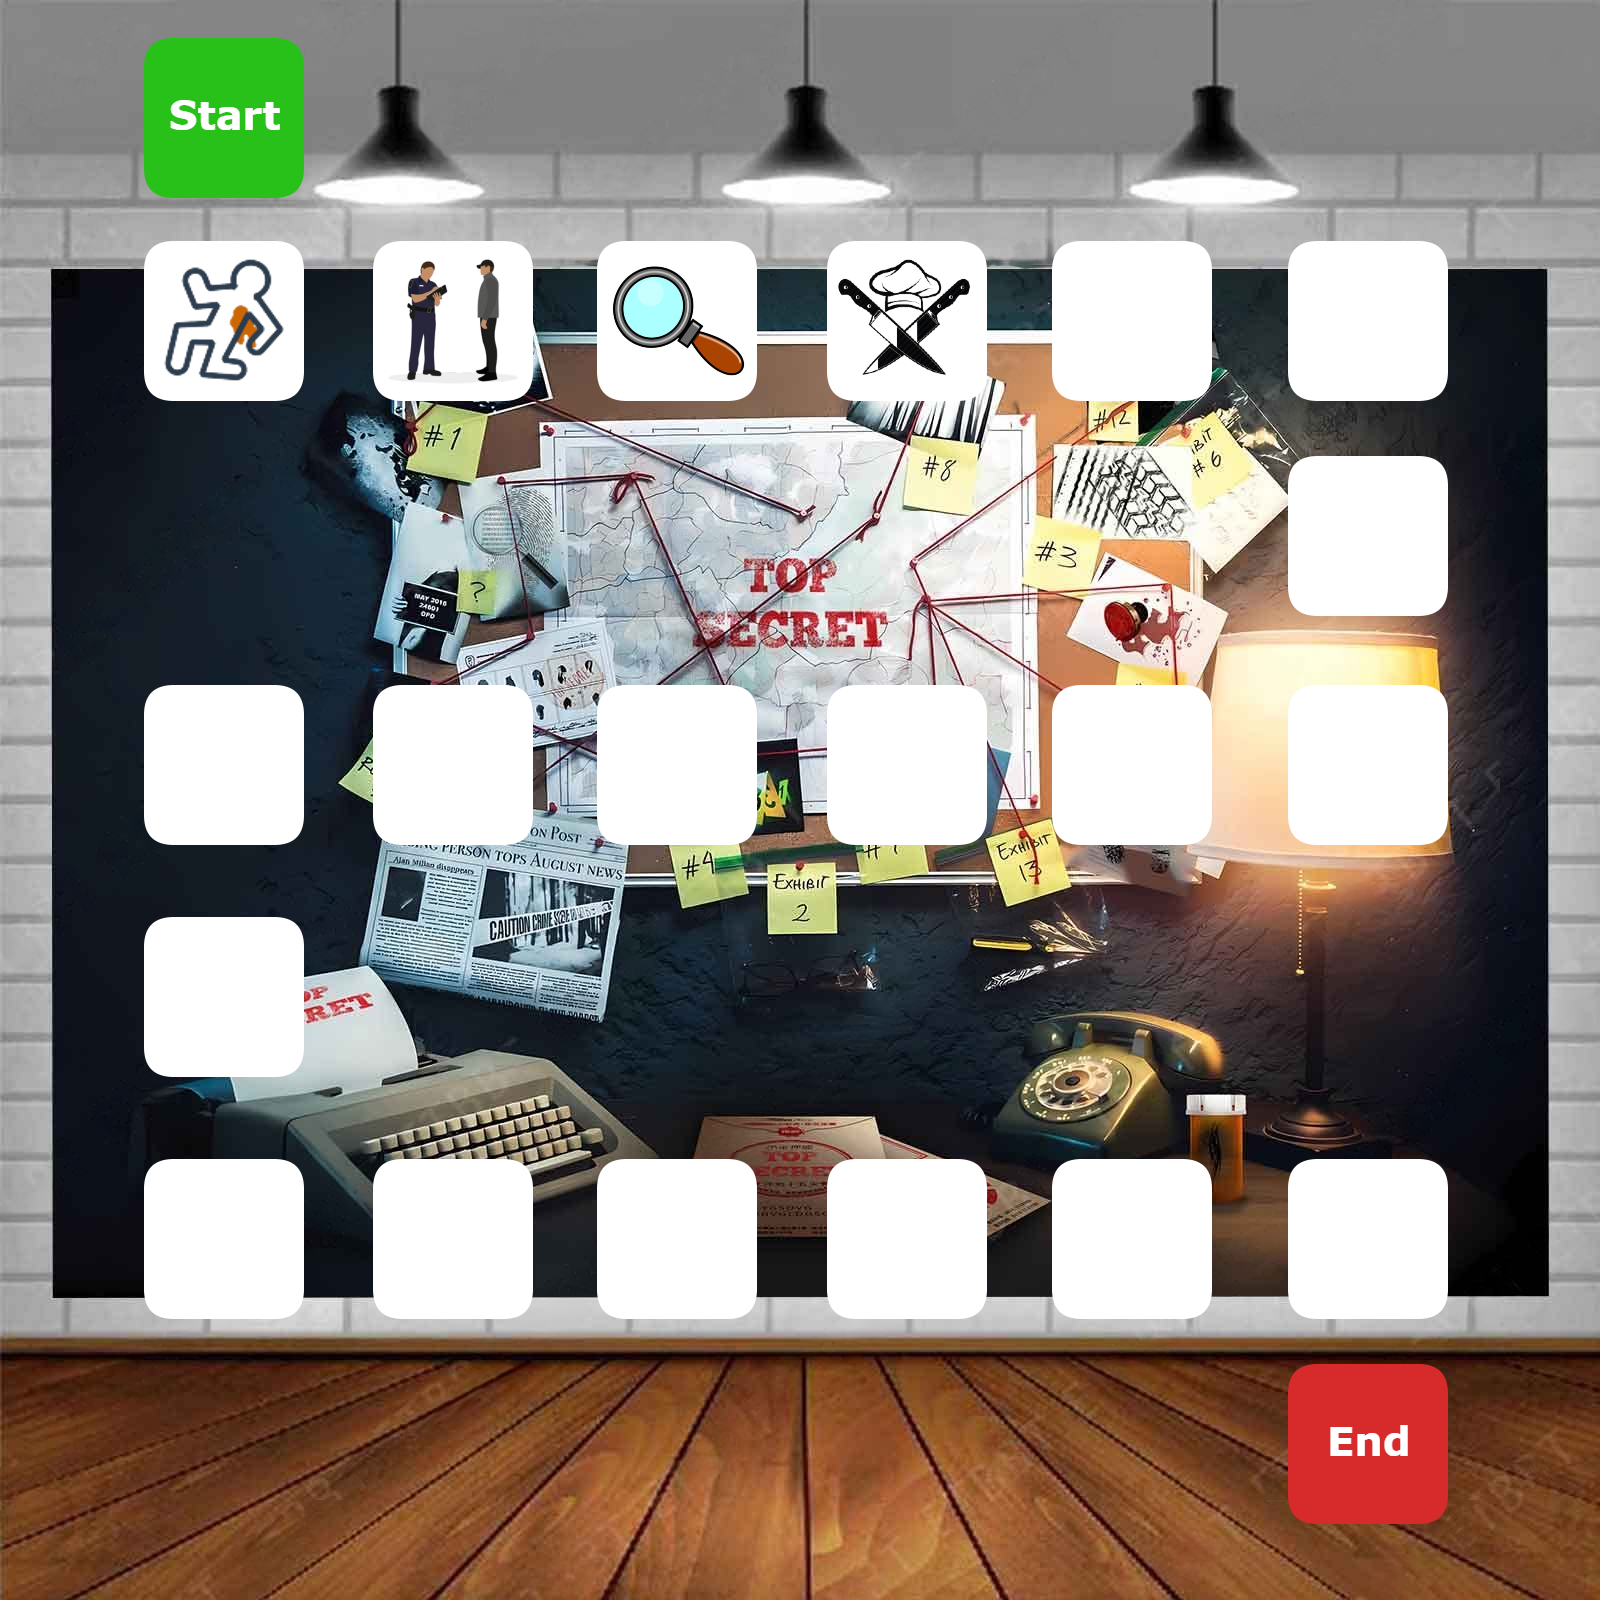
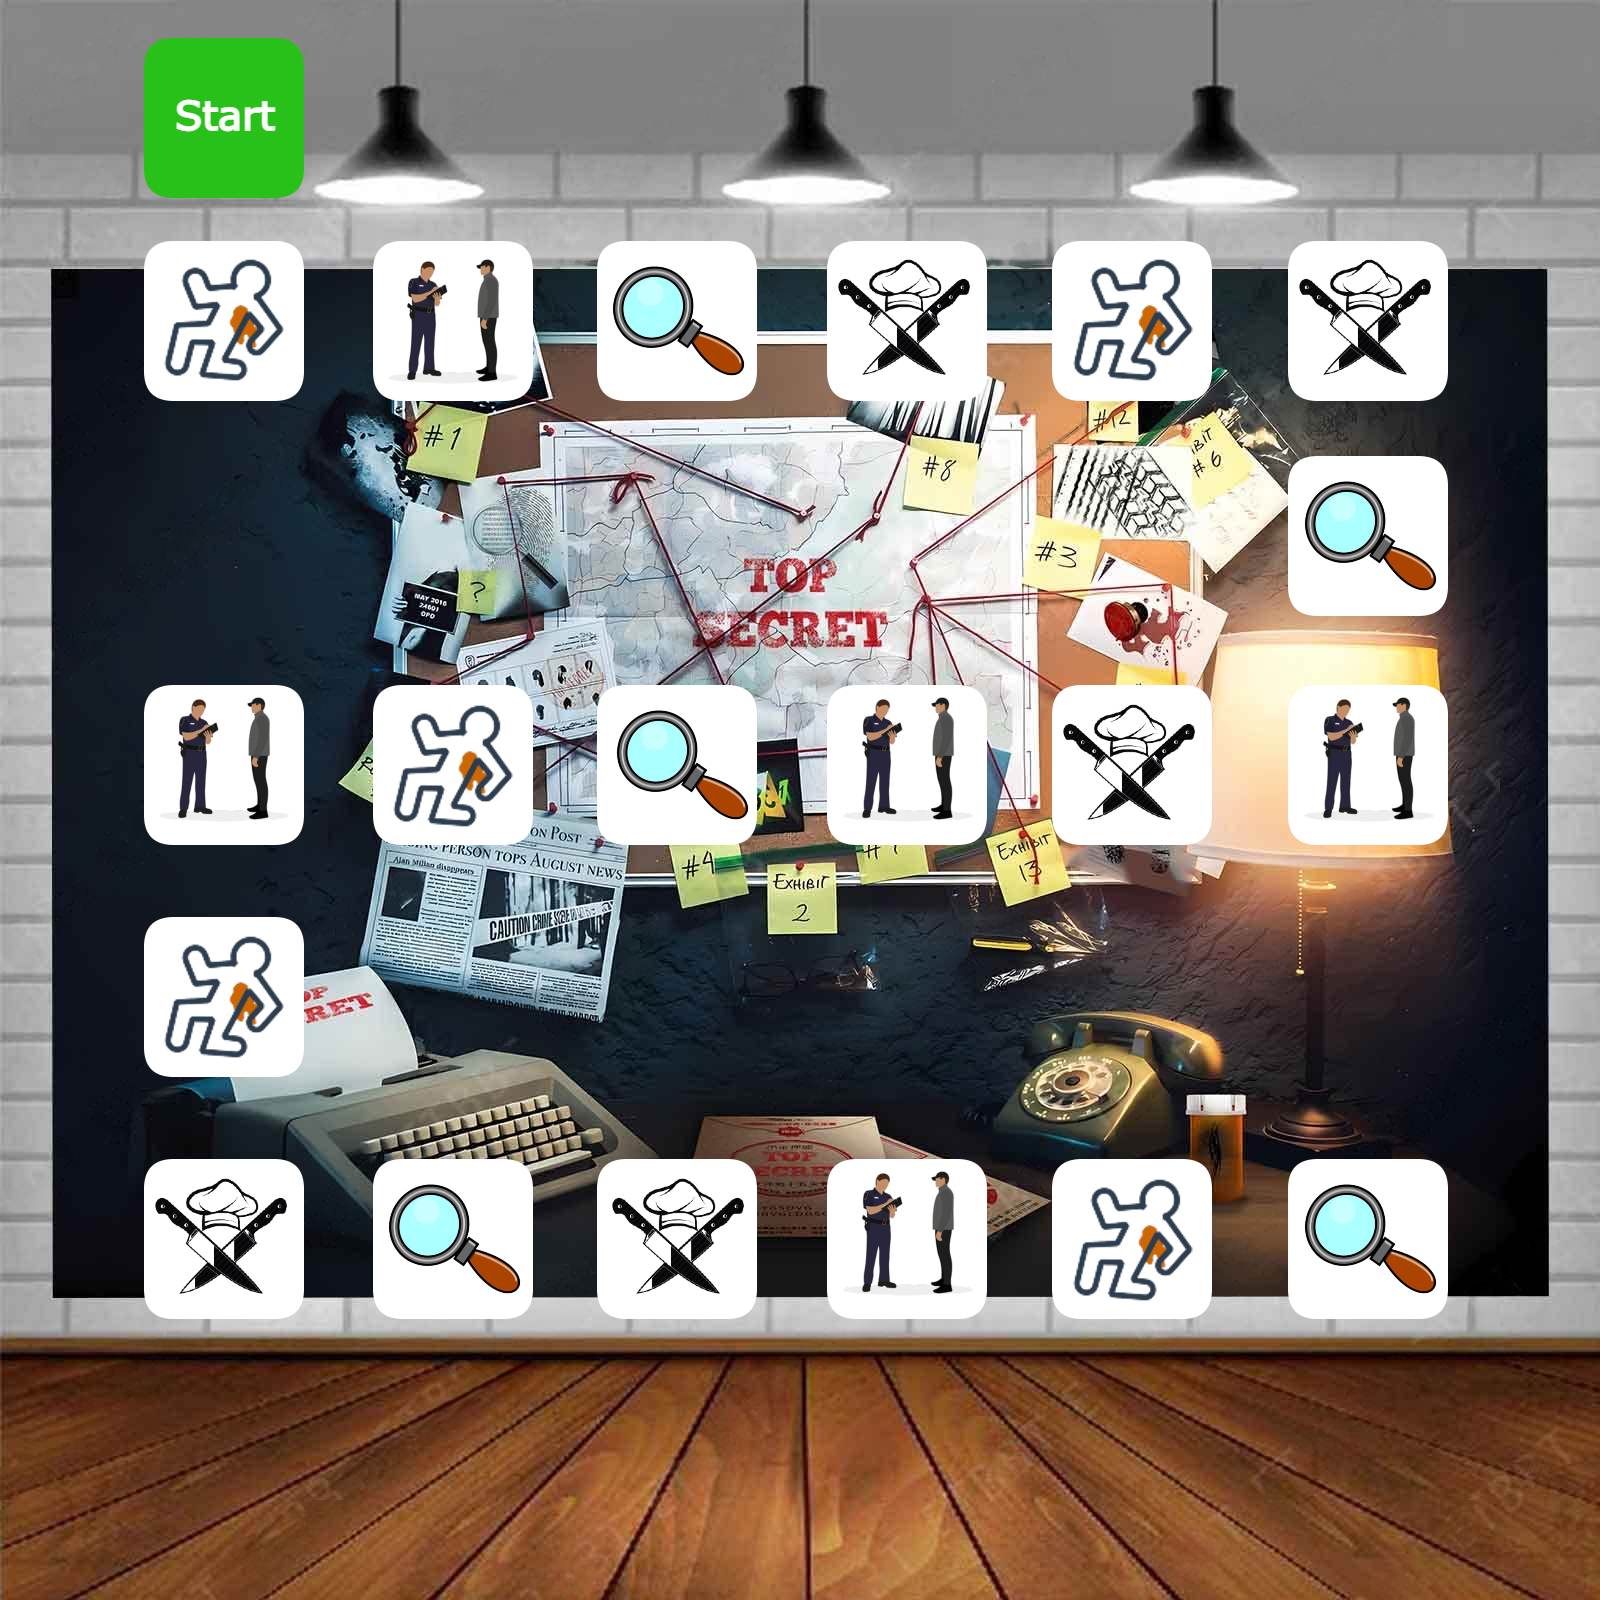
visual updates

diff --git a/main.py b/main.py
@@ -23,10 +23,10 @@ at_target_square = False
 can_move = False
 
 categories = [
-    [2, 6, 10, 14, 18],
-    [3, 7, 11, 15, 19],
-    [4, 8, 12, 16, 20],
-    [5, 9, 13, 17, 21]
+    [2, 6, 13, 15, 20], #scene
+    [3, 9, 11, 14, 19], #witness
+    [4, 8, 12, 17, 21], #generic
+    [5, 7, 10, 16, 18]  #weapon
 ]
 
 used_clues = [
@@ -41,7 +41,8 @@ foodBorneIllnessChoices = ["Botulism", "E. Coli", "Salmonella", "Norovirus"]
 causeOfIllnessChoices = ["Eggs", "Chicken", "Pizza", "Mayonnaise"]
 howItWasCausedChoices = ["Contamination", "Improper Storage", "Cross Contamination", "Improper Cooking"]
 
-solution = ["Alex", "Salmonella", "Mayonnaise", "Contamination"]  # Culprit, Food Borne Illness, Cause of Illness, How it was caused
+        # Culprit, Food Borne Illness, Cause of Illness, How it was caused
+solution = ["Alex", "Salmonella", "Mayonnaise", "Contamination"]  
 
 locations = {
     1: (113, 58),
@@ -68,7 +69,7 @@ locations = {
 }
 
 screen = pygame.display.set_mode((screen_width, screen_height))
-pygame.display.set_caption("Food Detective")
+pygame.display.set_caption(game_name)
 
 background_image = pygame.image.load("assets/Background.png")
 
@@ -94,9 +95,14 @@ def get_random_clue(category):
         add_used_clue(category, random_clue)
         return random_clue
 
-def draw_circle(square_number):
+def draw_player(square_number):
     x, y = locations[square_number]
-    pygame.draw.circle(screen, (0, 0, 255), (x, y), 10)
+    player_width = 60
+    player_height = 60
+
+    player_image = pygame.image.load("assets/player.png")
+    player_image = pygame.transform.scale(player_image, (player_width, player_height))
+    screen.blit(player_image, (x - (player_width / 2), y - (player_height / 2)))
 
 def roll_dice():
     return random.randint(1, 6)
@@ -345,7 +351,7 @@ def main():
 
         screen.blit(background_image, [0, 0])
 
-        draw_circle(current_square)
+        draw_player(current_square)
         roll_button()
         see_clues()
         display_remaining_rolls()
